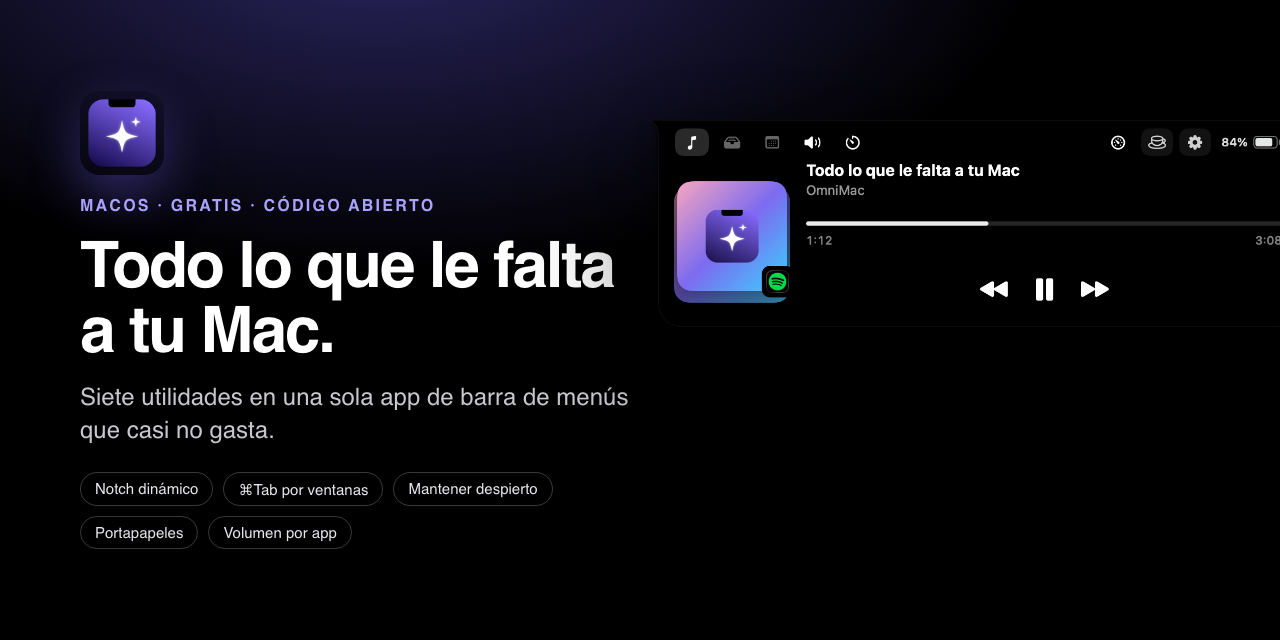
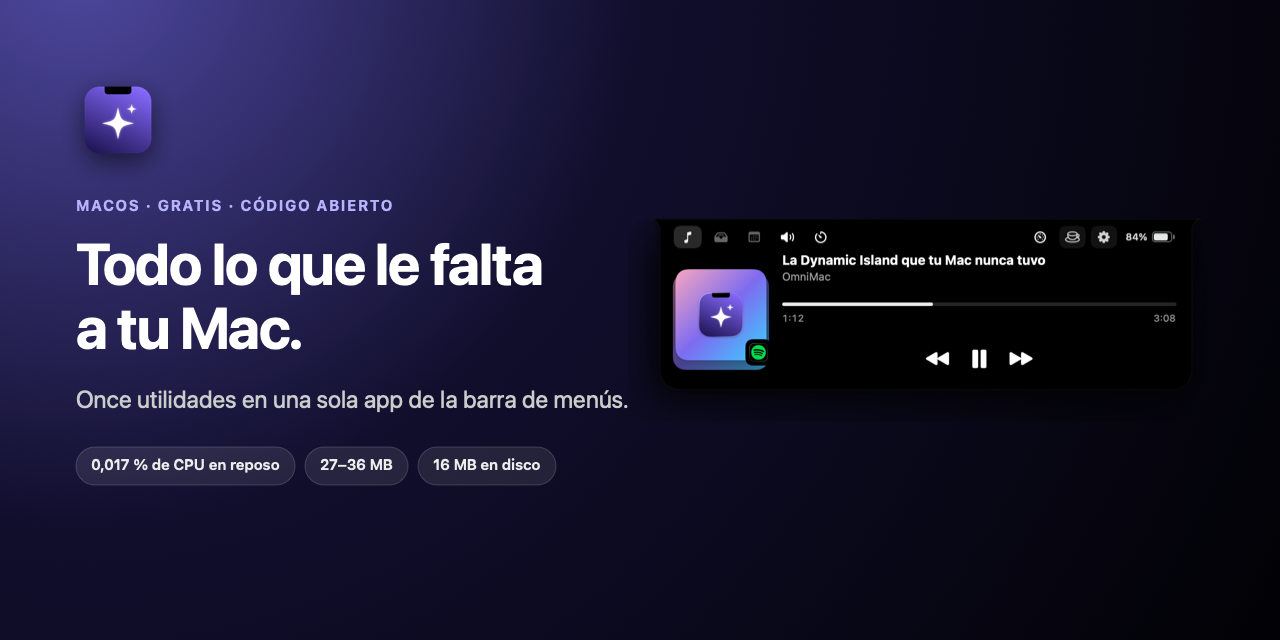
La tarjeta social se genera, y la inglesa deja de salir en español
Estaba hecha a mano recortando el hero de la web, así que se quedó anunciando
«siete utilidades» cuando ya eran once, y la página en inglés apuntaba a la
tarjeta española: al pegar el enlace en LinkedIn o en X, el titular salía en
español para quien lee en inglés.

`social.swift` la dibuja con CoreGraphics, como el vídeo, en los dos idiomas. Los
textos y las tres cifras están arriba del guion, en un sitio, para que cambiarlas
en la siguiente versión sea una línea.

Y al RELEASE.md le faltaban tres cosas que caducan solas porque viven fuera del
repositorio: la tarjeta social (que lleva las cifras escritas dentro de la
imagen), la descripción del repositorio en GitHub, y el perfil de LinkedIn, que
cita el número de módulos en tres sitios distintos y en dos idiomas.

diff --git a/docs/site/en/index.html b/docs/site/en/index.html
@@ -6,7 +6,7 @@
 <title>OmniMac — Dynamic Island for any Mac, even without a notch</title>
 <meta name="description" content="Free, open-source macOS menu bar app: a Dynamic Island that works on Macs without a notch, per-app volume and equaliser, window layouts, clipboard, OCR. 0.017 % CPU.">
[1 lines of base64/hex data omitted]
-<meta property="og:type" content="website"><meta property="og:url" content="https://bysergimm.github.io/OmniMac/en/"><meta property="og:title" content="OmniMac — Dynamic Island for any Mac, even without a notch"><meta property="og:description" content="Eleven more utilities in one 16 MB menu bar app. Free, open source, 0.017 % CPU."><meta property="og:image" content="https://bysergimm.github.io/OmniMac/img/social-preview.png"><meta property="og:image:width" content="1280"><meta property="og:image:height" content="640"><meta property="og:locale" content="en_US"><meta name="twitter:card" content="summary_large_image"><meta name="twitter:title" content="OmniMac — Dynamic Island for any Mac, even without a notch"><meta name="twitter:description" content="Eleven more utilities in one 16 MB menu bar app. Free, open source, 0.017 % CPU."><meta name="twitter:image" content="https://bysergimm.github.io/OmniMac/img/social-preview.png">
+<meta property="og:type" content="website"><meta property="og:url" content="https://bysergimm.github.io/OmniMac/en/"><meta property="og:title" content="OmniMac — Dynamic Island for any Mac, even without a notch"><meta property="og:description" content="Eleven more utilities in one 16 MB menu bar app. Free, open source, 0.017 % CPU."><meta property="og:image" content="https://bysergimm.github.io/OmniMac/img/en/social-preview.png"><meta property="og:image:width" content="1280"><meta property="og:image:height" content="640"><meta property="og:locale" content="en_US"><meta name="twitter:card" content="summary_large_image"><meta name="twitter:title" content="OmniMac — Dynamic Island for any Mac, even without a notch"><meta name="twitter:description" content="Eleven more utilities in one 16 MB menu bar app. Free, open source, 0.017 % CPU."><meta name="twitter:image" content="https://bysergimm.github.io/OmniMac/img/en/social-preview.png">
 <link rel="canonical" href="https://bysergimm.github.io/OmniMac/en/"><link rel="alternate" hreflang="es" href="https://bysergimm.github.io/OmniMac/"><link rel="alternate" hreflang="en" href="https://bysergimm.github.io/OmniMac/en/"><link rel="alternate" hreflang="x-default" href="https://bysergimm.github.io/OmniMac/en/">
 <script type="application/ld+json">{"@context":"https://schema.org","@type":"SoftwareApplication","name":"OmniMac","operatingSystem":"macOS 14.2 or later","applicationCategory":"UtilitiesApplication","offers":{"@type":"Offer","price":"0","priceCurrency":"EUR"},"license":"https://opensource.org/licenses/MIT","url":"https://bysergimm.github.io/OmniMac/en/","downloadUrl":"https://github.com/BySergiMM/OmniMac/releases/latest/download/OmniMac.pkg","author":{"@type":"Person","name":"Sergi (BySergiMM)","url":"https://github.com/BySergiMM"},"description":"Eleven Mac utilities in one light, free and open-source app: a Dynamic Island that works on Macs without a notch, keep awake, ⌘Tab by windows, window shortcuts, clipboard, tools (OCR, colour picker, microphone), sound with per-app volume and equaliser, a performance monitor with temperature, a menu bar hider, a command bar and an app cleaner."}</script>
 <style>

diff --git a/scripts/dev/social.swift b/scripts/dev/social.swift
@@ -1,0 +1,169 @@
+import AppKit
+
+// Tarjeta social de 1280×640: la que enseña GitHub al compartir el repositorio y la
+// que sale al pegar el enlace de la web en LinkedIn, X o WhatsApp.
+//
+// Se hacía a mano recortando el hero de la web, y por eso se quedó en español y
+// anunciando siete módulos cuando ya eran once. Ahora se genera:
+//
+//   swift scripts/dev/social.swift es docs/site/img/social-preview.png
+//   swift scripts/dev/social.swift en docs/site/img/en/social-preview.png
+//
+// Al subir de versión hay que volver a lanzarla (está en docs/RELEASE.md).
+
+let args = CommandLine.arguments
+guard args.count == 3 else {
+    print("uso: social.swift <es|en> <salida.png>")
+    exit(1)
+}
+let spanish = args[1].lowercased().hasPrefix("es")
+let outputPath = args[2]
+
+let W = 1280, H = 640
+
+// MARK: - Textos
+
+let eyebrow  = spanish ? "MACOS · GRATIS · CÓDIGO ABIERTO" : "MACOS · FREE · OPEN SOURCE"
+let title    = spanish ? "Todo lo que le falta\na tu Mac." : "Everything your Mac\nis missing."
+let subtitle = spanish ? "Once utilidades en una sola app de la barra de menús."
+                       : "Eleven utilities in one menu bar app."
+// Las tres cifras que de verdad convencen, y que son las que hay que revisar al
+// cambiar de versión.
+let stats: [String] = spanish ? ["0,017 % de CPU en reposo", "27–36 MB", "16 MB en disco"]
+                              : ["0.017% CPU at idle", "27–36 MB", "16 MB on disk"]
+
+// MARK: - Lienzo
+
+let ctx = CGContext(data: nil, width: W, height: H, bitsPerComponent: 8, bytesPerRow: 0,
+                    space: CGColorSpaceCreateDeviceRGB(),
+                    bitmapInfo: CGImageAlphaInfo.premultipliedFirst.rawValue | CGBitmapInfo.byteOrder32Little.rawValue)!
+ctx.interpolationQuality = .high
+
+// Mismo degradado que el fondo de los vídeos y el hero de la web, para que las tres
+// cosas se reconozcan como la misma marca.
+ctx.setFillColor(CGColor(red: 0, green: 0, blue: 0, alpha: 1))
+ctx.fill(CGRect(x: 0, y: 0, width: W, height: H))
+let gradient = CGGradient(colorsSpace: CGColorSpaceCreateDeviceRGB(),
+                          colors: [CGColor(red: 0.24, green: 0.20, blue: 0.56, alpha: 1),
+                                   CGColor(red: 0.055, green: 0.045, blue: 0.13, alpha: 1),
+                                   CGColor(red: 0, green: 0, blue: 0, alpha: 1)] as CFArray,
+                          locations: [0, 0.38, 1])!
+// El brillo se concentra arriba a la izquierda, detrás del icono y del titular, y
+// el resto cae casi a negro: así el texto blanco tiene contraste de verdad y la
+// captura del notch no compite con el fondo.
+ctx.drawRadialGradient(gradient,
+                       startCenter: CGPoint(x: Double(W) * 0.06, y: Double(H) * 1.06), startRadius: 0,
+                       endCenter: CGPoint(x: Double(W) * 0.06, y: Double(H) * 1.06), endRadius: 1480,
+                       options: [])
+
+let ns = NSGraphicsContext(cgContext: ctx, flipped: false)
+NSGraphicsContext.saveGraphicsState()
+NSGraphicsContext.current = ns
+
+/// Dibuja texto alineado a la izquierda con el borde **superior** en `top`
+/// (coordenadas de CoreGraphics, origen abajo). Devuelve la altura ocupada, para
+/// encadenar lo siguiente sin solapar.
+@discardableResult
+func draw(_ string: String, x: CGFloat, top: CGFloat, size: CGFloat, weight: NSFont.Weight,
+          color: NSColor, tracking: CGFloat = 0, maxWidth: CGFloat = 640, lineHeight: CGFloat? = nil) -> CGFloat {
+    let paragraph = NSMutableParagraphStyle()
+    paragraph.alignment = .left
+    if let lineHeight { paragraph.maximumLineHeight = lineHeight; paragraph.minimumLineHeight = lineHeight }
+    var attributes: [NSAttributedString.Key: Any] = [
+        .font: NSFont.systemFont(ofSize: size, weight: weight),
+        .foregroundColor: color,
+        .paragraphStyle: paragraph,
+    ]
+    if tracking != 0 { attributes[.kern] = tracking }
+    let bounding = (string as NSString).boundingRect(with: CGSize(width: maxWidth, height: .greatestFiniteMagnitude),
+                                                     options: [.usesLineFragmentOrigin], attributes: attributes)
+    let height = ceil(bounding.height)
+    (string as NSString).draw(with: CGRect(x: x, y: top - height, width: maxWidth, height: height),
+                              options: [.usesLineFragmentOrigin], attributes: attributes)
+    return height
+}
+
+func loadImage(_ path: String) -> CGImage? {
+    guard let source = CGImageSourceCreateWithURL(URL(fileURLWithPath: path) as CFURL, nil) else { return nil }
+    return CGImageSourceCreateImageAtIndex(source, 0, nil)
+}
+
+// MARK: - Columna izquierda
+
+let left: CGFloat = 76
+var cursor: CGFloat = CGFloat(H) - 78      // vamos bajando desde arriba
+
+if let icon = loadImage("docs/site/img/icon-512.png") {
+    let side: CGFloat = 84
+    ctx.saveGState()
+    ctx.setShadow(offset: CGSize(width: 0, height: -8), blur: 26,
+                  color: CGColor(red: 0, green: 0, blue: 0, alpha: 0.55))
+    ctx.draw(icon, in: CGRect(x: left, y: cursor - side, width: side, height: side))
+    ctx.restoreGState()
+    cursor -= side + 34
+}
+
+cursor -= draw(eyebrow, x: left, top: cursor, size: 15, weight: .bold,
+               color: NSColor(red: 0.72, green: 0.70, blue: 1.0, alpha: 1), tracking: 1.7) + 18
+
+// El titular es lo único que se lee cuando la tarjeta sale pequeña en un feed.
+cursor -= draw(title, x: left, top: cursor, size: 58, weight: .bold,
+               color: .white, tracking: -1.2, lineHeight: 64) + 20
+
+cursor -= draw(subtitle, x: left, top: cursor, size: 24, weight: .regular,
+               color: NSColor(white: 0.80, alpha: 1), maxWidth: 600, lineHeight: 32) + 34
+
+// MARK: - Las cifras, en pastillas
+
+var pillX = left
+let pillHeight: CGFloat = 38
+for stat in stats {
+    let font = NSFont.systemFont(ofSize: 15, weight: .semibold)
+    let width = ceil((stat as NSString).size(withAttributes: [.font: font]).width) + 30
+    let rect = CGRect(x: pillX, y: cursor - pillHeight, width: width, height: pillHeight)
+    let path = CGPath(roundedRect: rect, cornerWidth: pillHeight / 2, cornerHeight: pillHeight / 2, transform: nil)
+    ctx.addPath(path)
+    ctx.setFillColor(CGColor(red: 1, green: 1, blue: 1, alpha: 0.09))
+    ctx.fillPath()
+    ctx.addPath(path)
+    ctx.setStrokeColor(CGColor(red: 1, green: 1, blue: 1, alpha: 0.16))
+    ctx.setLineWidth(1)
+    ctx.strokePath()
+    (stat as NSString).draw(at: CGPoint(x: pillX + 15, y: cursor - pillHeight + 11),
+                            withAttributes: [.font: font, .foregroundColor: NSColor(white: 0.93, alpha: 1)])
+    pillX += width + 10
+}
+
+// MARK: - El notch, a la derecha
+
+// La captura del notch es lo que hace entender de un vistazo qué es esto. Se sangra
+// por el borde derecho a propósito: da sensación de que hay más.
+let notchPath = spanish ? "docs/site/img/notch-media.png" : "docs/site/img/en/notch-media.png"
+if let notch = loadImage(notchPath) {
+    let width: CGFloat = 596
+    let height = width * CGFloat(notch.height) / CGFloat(notch.width)
+    let rect = CGRect(x: CGFloat(W) - width - 56, y: (CGFloat(H) - height) / 2, width: width, height: height)
+    ctx.saveGState()
+    ctx.setShadow(offset: CGSize(width: -10, height: -16), blur: 44,
+                  color: CGColor(red: 0, green: 0, blue: 0, alpha: 0.7))
+    let rounded = CGPath(roundedRect: rect, cornerWidth: 20, cornerHeight: 20, transform: nil)
+    ctx.addPath(rounded)
+    ctx.clip()
+    ctx.draw(notch, in: rect)
+    ctx.restoreGState()
+}
+
+NSGraphicsContext.restoreGraphicsState()
+
+// MARK: - Guardar
+
+guard let image = ctx.makeImage(),
+      let destination = CGImageDestinationCreateWithURL(URL(fileURLWithPath: outputPath) as CFURL,
+                                                        "public.png" as CFString, 1, nil) else {
+    print("no se pudo escribir \(outputPath)")
+    exit(1)
+}
+CGImageDestinationAddImage(destination, image, nil)
+CGImageDestinationFinalize(destination)
+let bytes = (try? FileManager.default.attributesOfItem(atPath: outputPath)[.size]) as? Int ?? 0
+print("\(outputPath): \(W)×\(H), \(bytes / 1024) KB")

diff --git a/docs/RELEASE.md b/docs/RELEASE.md
@@ -73,6 +73,15 @@ Y cada varios meses, o cuando alguna de ellas saque versión mayor:
 - [ ] Que las etiquetas Open Graph de las dos versiones digan lo suyo: la raíz está en
       español y `/en/` en inglés (si se comparte la raíz con angloparlantes, la tarjeta
       sale en español).
+- [ ] **Tarjeta social**, que lleva el número de módulos y las cifras de consumo
+      escritos dentro de la imagen y por eso caduca sin que se note:
+
+      swift scripts/dev/social.swift es docs/site/img/social-preview.png
+      swift scripts/dev/social.swift en docs/site/img/en/social-preview.png
+
+      Los textos están arriba del guion: número de módulos, CPU en reposo, memoria y
+      disco. Súbela también a GitHub › Settings › General › **Social preview** — eso
+      no tiene API, se hace a mano.
 
 ## 5. Los README
 
@@ -81,6 +90,18 @@ Y cada varios meses, o cuando alguna de ellas saque versión mayor:
 - [ ] **README de tu perfil de GitHub** (repositorio `BySergiMM/BySergiMM`): es un
       repositorio aparte, no está en este proyecto. Actualizar ahí la descripción de
       OmniMac y las cifras si las cita.
+- [ ] **Descripción del repositorio en GitHub** (`gh api -X PATCH repos/BySergiMM/OmniMac
+      -f description=…`): también lleva el número de módulos y el 0,017 %.
+
+## 5 bis. LinkedIn
+
+Fuera del repositorio, y por eso se olvida. Todo esto cita el número de módulos o el
+consumo, así que caduca en cada versión:
+
+- [ ] **Perfil › Acerca de**: número de módulos y memoria.
+- [ ] **Perfil › Proyectos › OmniMac**: la descripción larga, con las cifras.
+- [ ] **Perfil › Destacado**: el resumen corto de OmniMac.
+- [ ] Las tres existen en **español y en inglés** (versión secundaria del perfil).
 
 ## 6. Limpieza (lo que le llega a quien no es tú)
 
